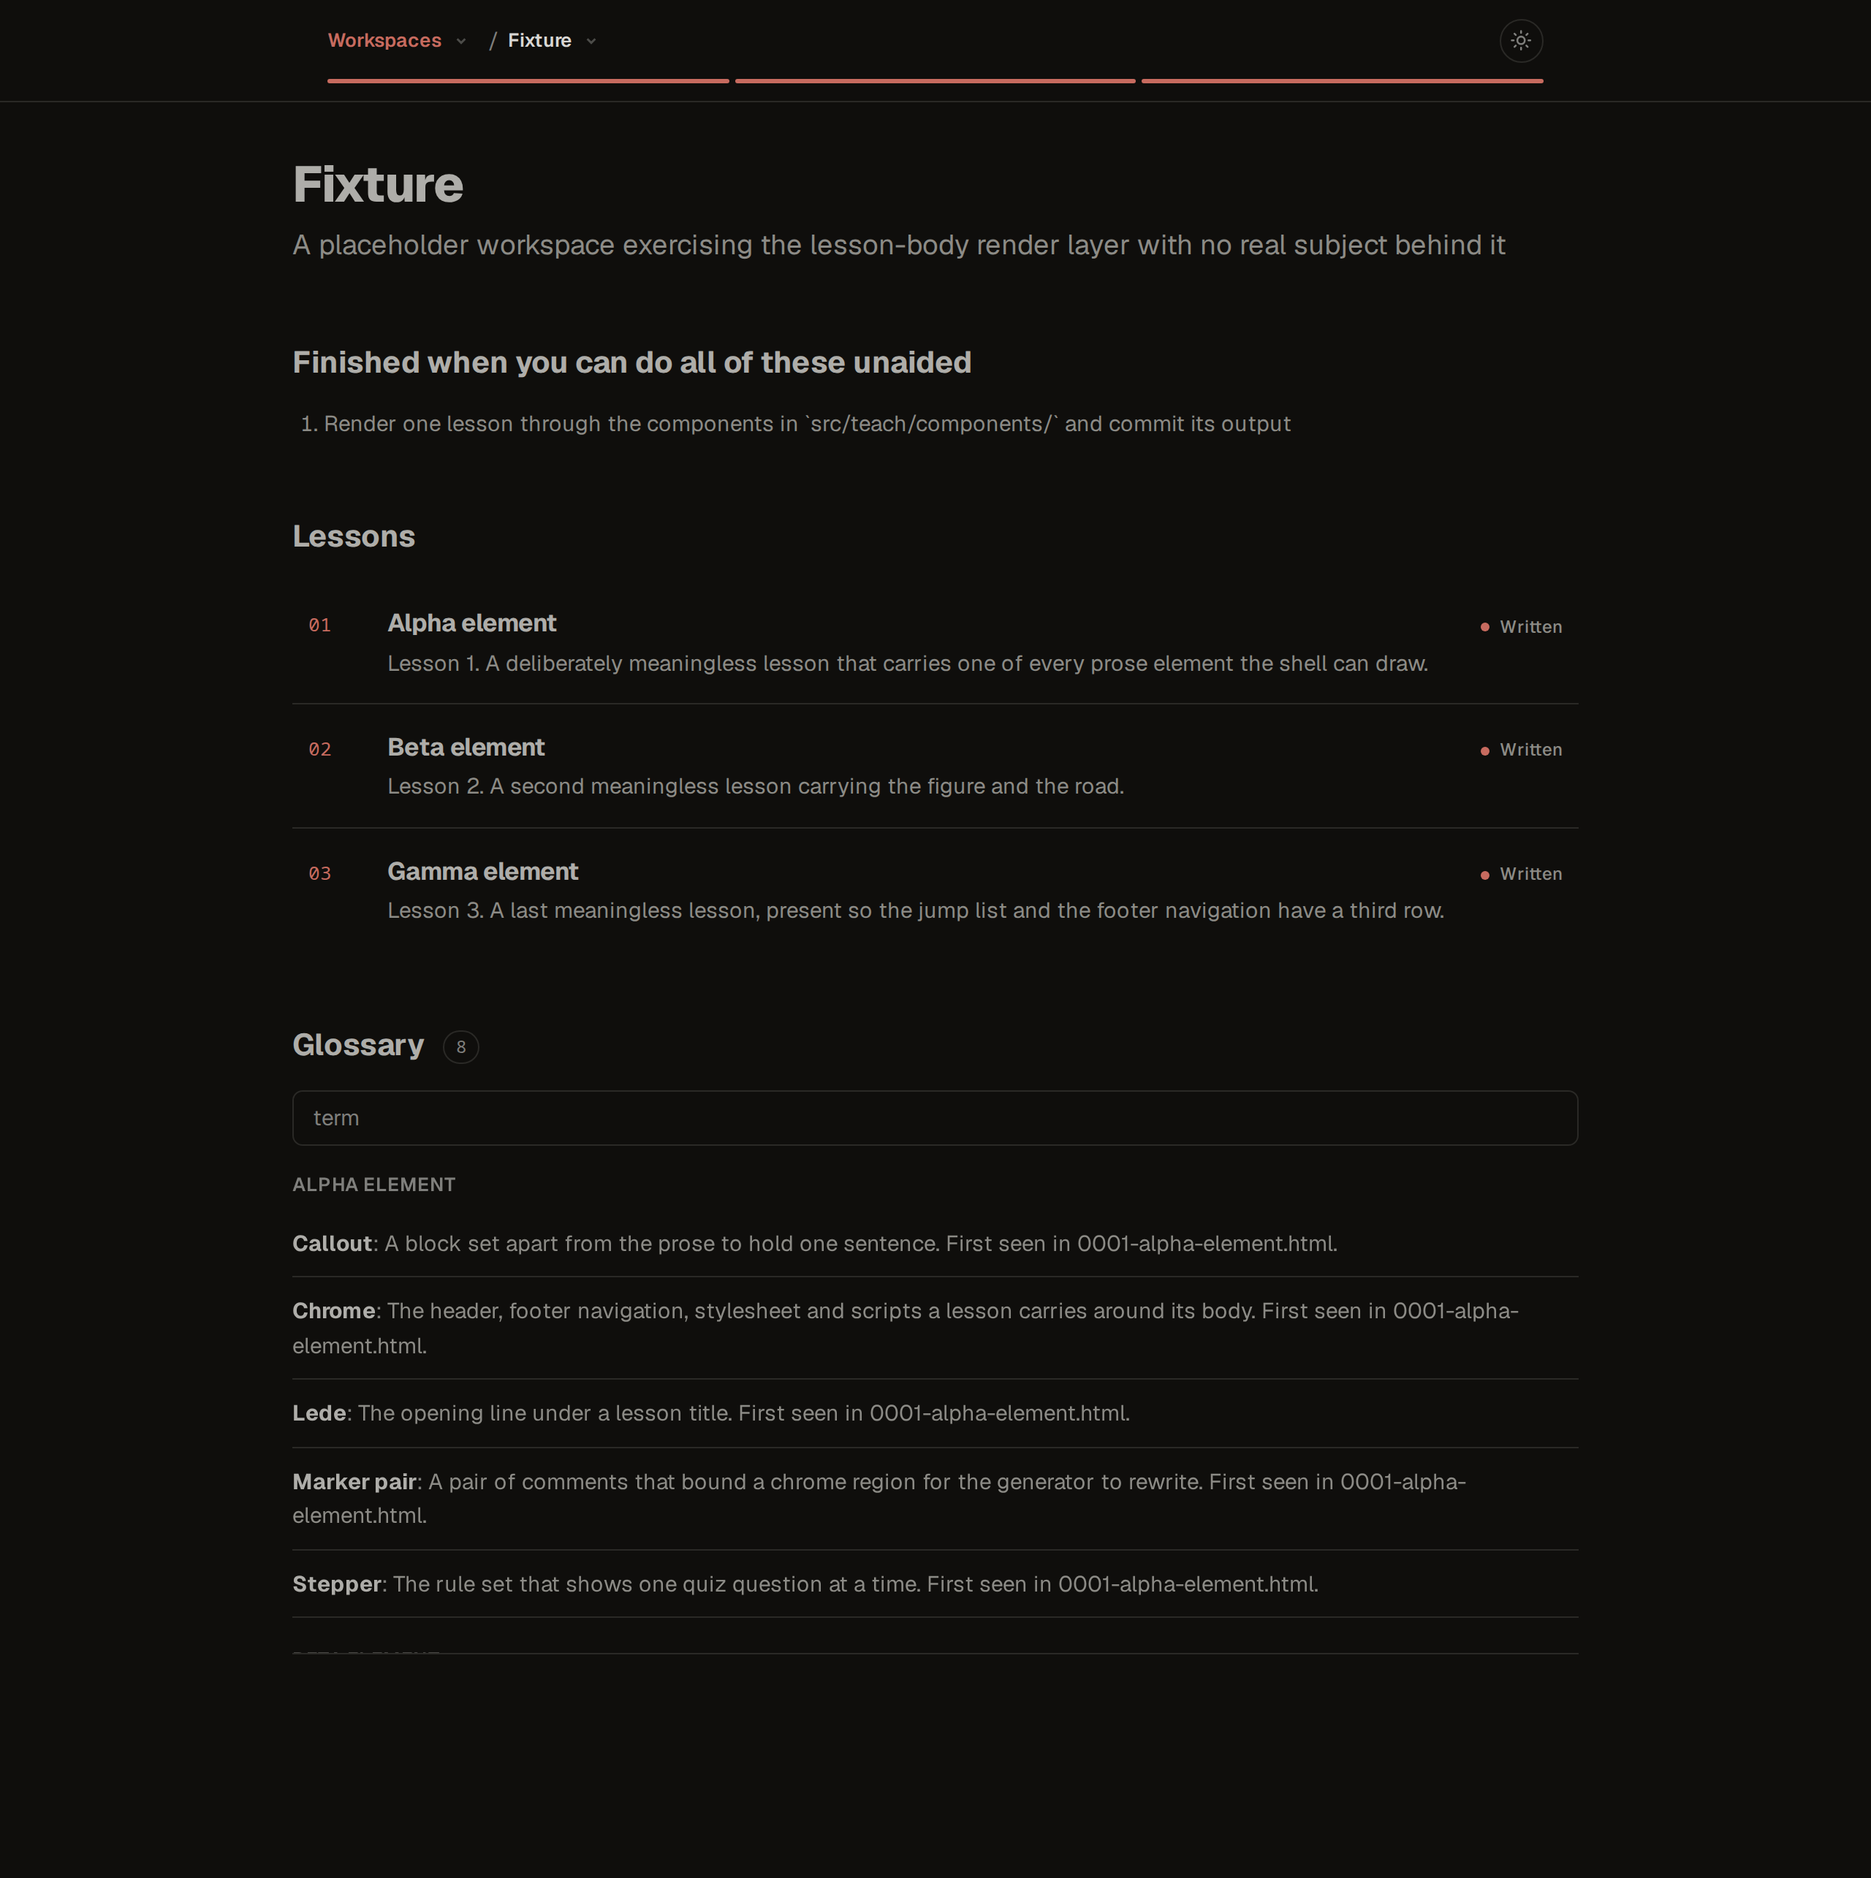
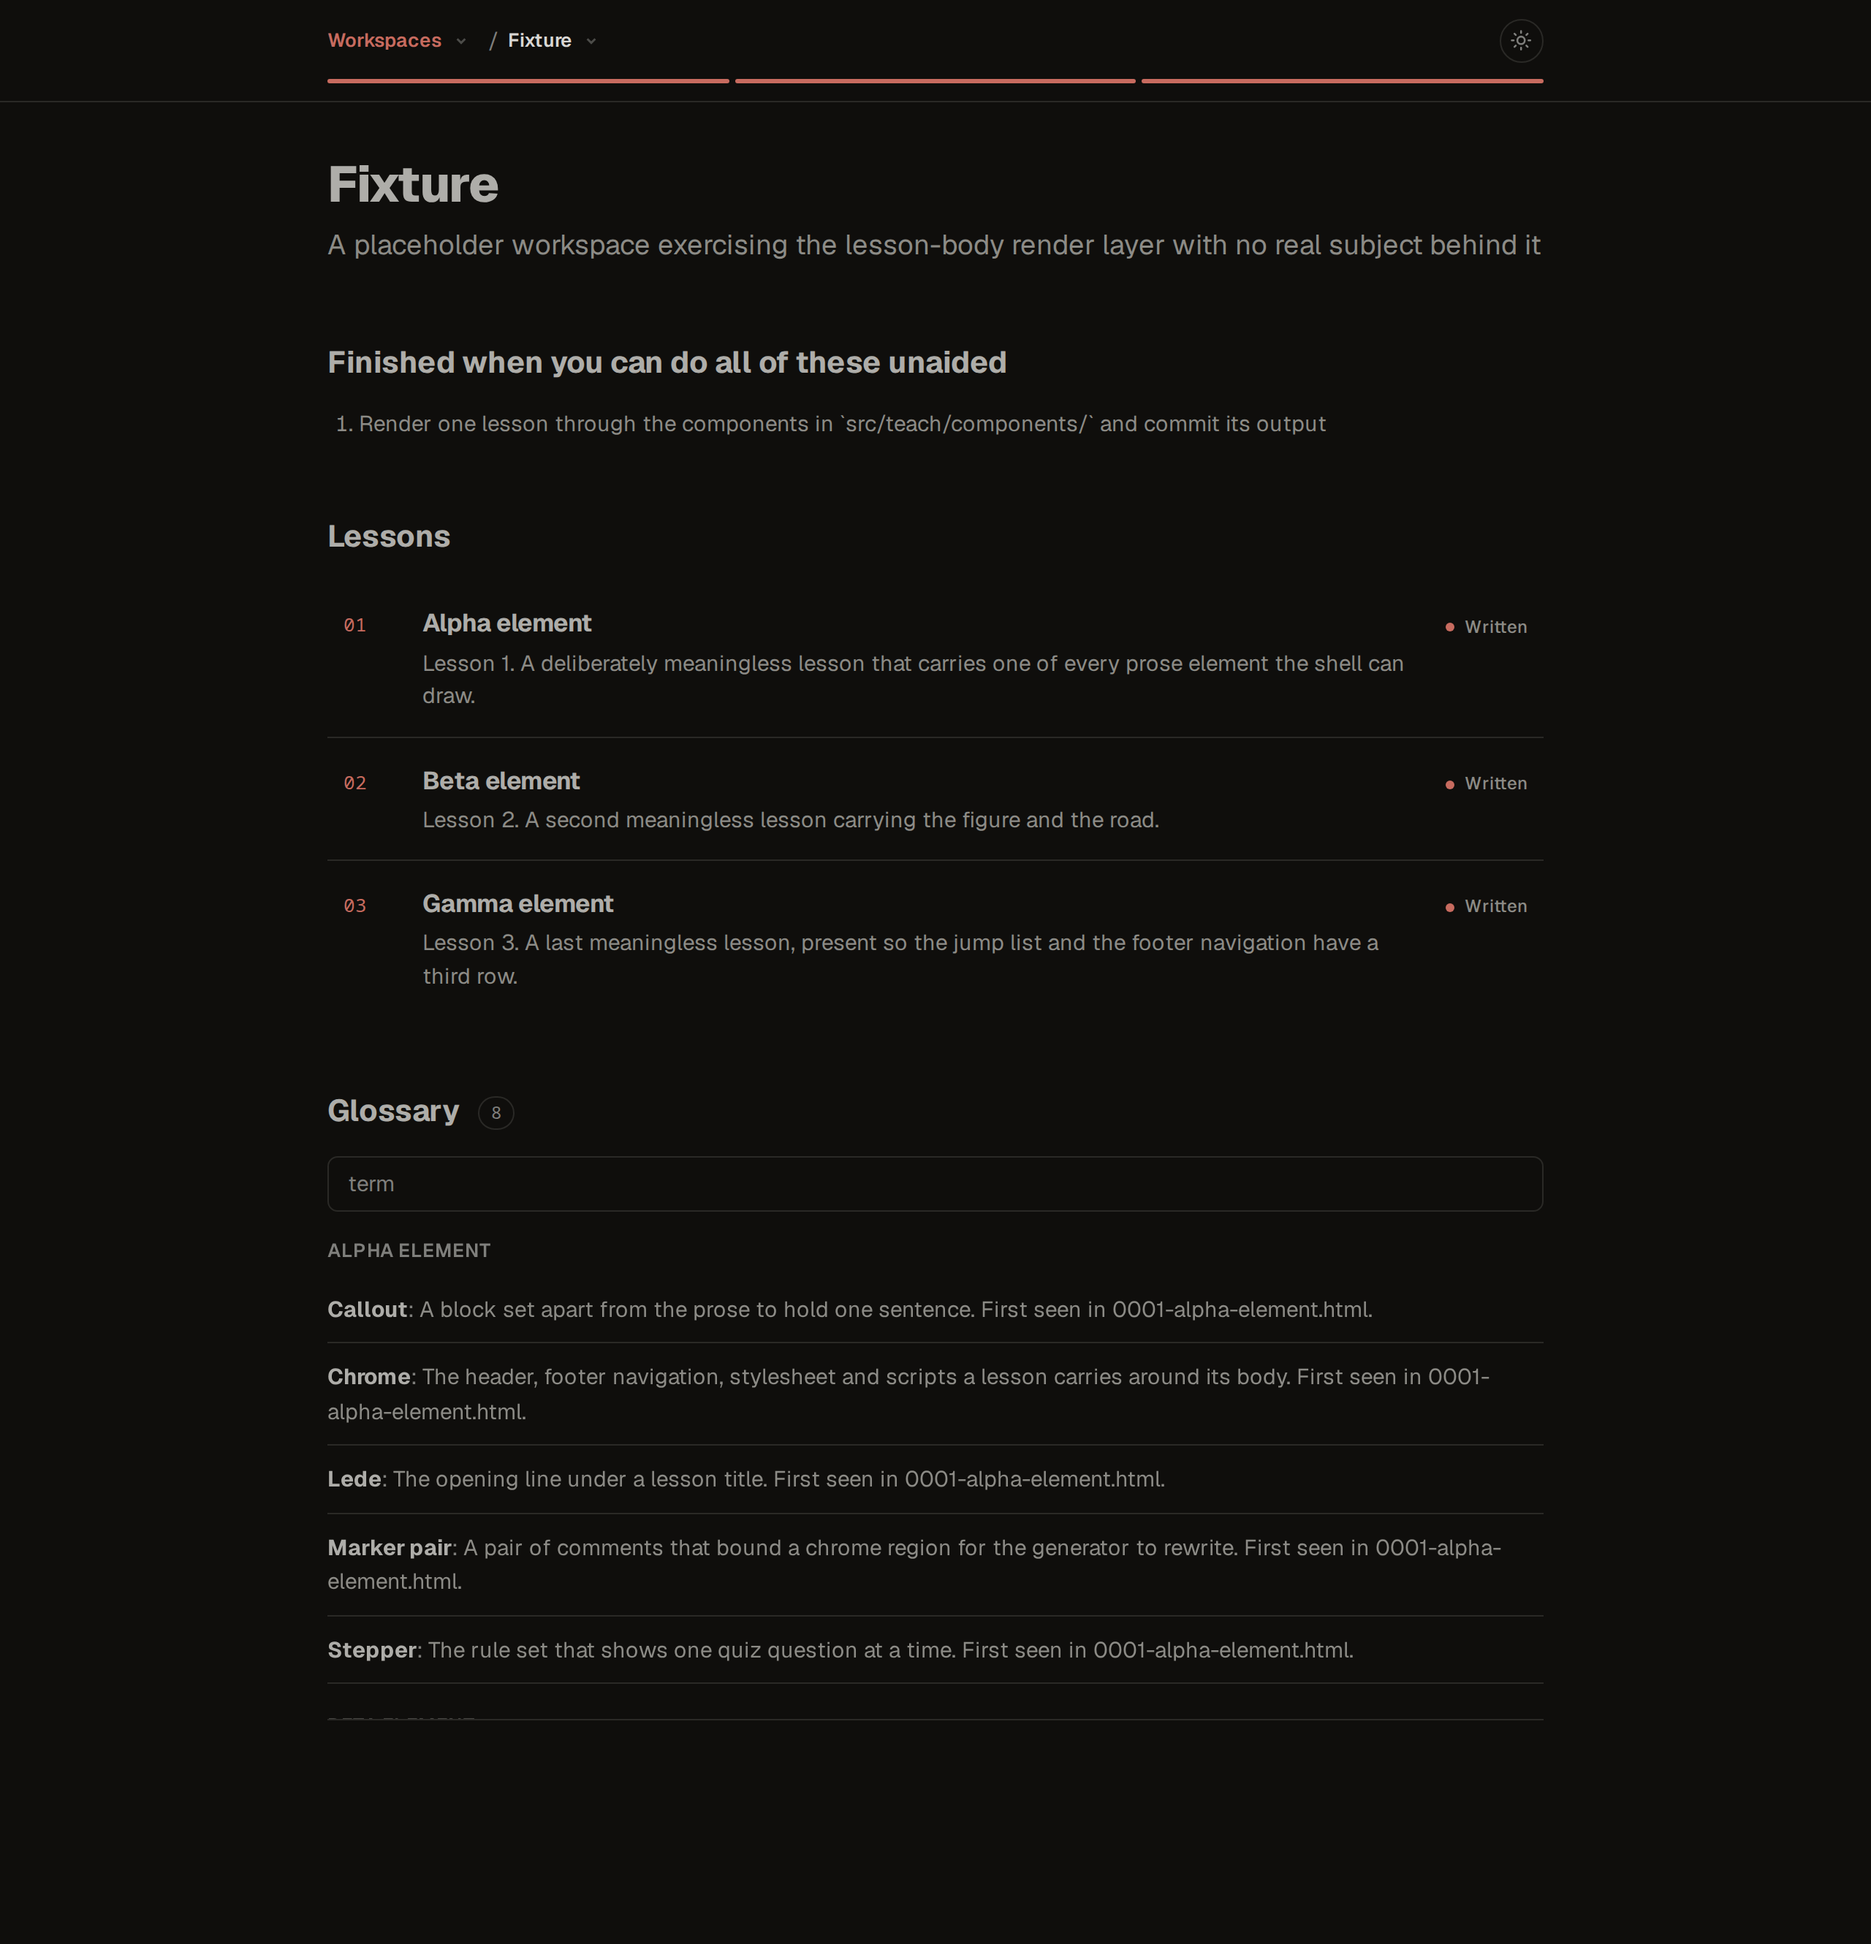
fix(teach): size padded boxes by border box and refresh the fixture

diff --git a/examples/teach/00-fixture/assets/base.css b/examples/teach/00-fixture/assets/base.css
@@ -295,6 +295,10 @@ figcaption {
   --teach-shadow: none;
 }
 
+html {
+  scroll-padding-top: calc(var(--teach-mast-h) + 1rem);
+}
+
 /* No horizontal padding on the body, so the sticky bar reaches both window
    edges. The gutter moves onto `main`, which is the only thing that needed it. */
 body {
@@ -313,6 +317,7 @@ body {
    them. A narrower `.wide-body` was what put the navigation and the content on
    two different measures. */
 main {
+  box-sizing: border-box;
   max-width: calc(var(--teach-measure) + 3rem);
   margin: 0 auto;
   padding: 2.25rem 1.5rem 0;
@@ -402,6 +407,12 @@ main {
   font-weight: 400;
   box-shadow: none;
 }
+.nav > :only-child {
+  flex: 0 1 calc(50% - 0.3rem);
+}
+.nav > .to-next:only-child {
+  margin-left: auto;
+}
 
 .nav .lbl {
   display: block;
@@ -422,9 +433,6 @@ main {
 .nav .to-index {
   flex: 0 0 auto;
   text-align: center;
-}
-.nav-foot {
-  margin: 4.5rem 0 0;
 }
 
 /* ---- Masthead contents ---- */
@@ -586,7 +594,10 @@ main {
 /* ---- Footer navigation, the only place it appears ---- */
 
 .nav {
-  margin: 4rem 0 0;
+  max-width: calc(var(--teach-measure) + 3rem);
+  margin: 4rem auto 0;
+  padding: 0 1.5rem;
+  box-sizing: border-box;
   align-items: stretch;
 }
 
@@ -1171,6 +1182,7 @@ ol.succ li {
   font-family: var(--teach-sans);
   font-size: var(--t4);
   background: transparent;
+  box-sizing: border-box;
   width: 100%;
   text-align: left;
   color: inherit;

diff --git a/examples/teach/01-sparse/assets/base.css b/examples/teach/01-sparse/assets/base.css
@@ -295,6 +295,10 @@ figcaption {
   --teach-shadow: none;
 }
 
+html {
+  scroll-padding-top: calc(var(--teach-mast-h) + 1rem);
+}
+
 /* No horizontal padding on the body, so the sticky bar reaches both window
    edges. The gutter moves onto `main`, which is the only thing that needed it. */
 body {
@@ -313,6 +317,7 @@ body {
    them. A narrower `.wide-body` was what put the navigation and the content on
    two different measures. */
 main {
+  box-sizing: border-box;
   max-width: calc(var(--teach-measure) + 3rem);
   margin: 0 auto;
   padding: 2.25rem 1.5rem 0;
@@ -402,6 +407,12 @@ main {
   font-weight: 400;
   box-shadow: none;
 }
+.nav > :only-child {
+  flex: 0 1 calc(50% - 0.3rem);
+}
+.nav > .to-next:only-child {
+  margin-left: auto;
+}
 
 .nav .lbl {
   display: block;
@@ -422,9 +433,6 @@ main {
 .nav .to-index {
   flex: 0 0 auto;
   text-align: center;
-}
-.nav-foot {
-  margin: 4.5rem 0 0;
 }
 
 /* ---- Masthead contents ---- */
@@ -586,7 +594,10 @@ main {
 /* ---- Footer navigation, the only place it appears ---- */
 
 .nav {
-  margin: 4rem 0 0;
+  max-width: calc(var(--teach-measure) + 3rem);
+  margin: 4rem auto 0;
+  padding: 0 1.5rem;
+  box-sizing: border-box;
   align-items: stretch;
 }
 
@@ -1171,6 +1182,7 @@ ol.succ li {
   font-family: var(--teach-sans);
   font-size: var(--t4);
   background: transparent;
+  box-sizing: border-box;
   width: 100%;
   text-align: left;
   color: inherit;

diff --git a/src/design/components.ts b/src/design/components.ts
@@ -284,7 +284,7 @@ body {
    listing page and a lesson start at the same left edge as the chrome above
    them. A narrower \`.wide-body\` was what put the navigation and the content on
    two different measures. */
-main { max-width: calc(var(--teach-measure) + 3rem); margin: 0 auto; padding: 2.25rem 1.5rem 0; }
+main { box-sizing: border-box; max-width: calc(var(--teach-measure) + 3rem); margin: 0 auto; padding: 2.25rem 1.5rem 0; }
 .wide-body { max-width: calc(var(--teach-measure) + 3rem); }
 
 .bar {
@@ -928,6 +928,7 @@ const TEACH_QUIZ: Component = {
   font-family: var(--teach-sans);
   font-size: var(--t4);
   background: transparent;
+  box-sizing: border-box;
   width: 100%;
   text-align: left;
   color: inherit;

diff --git a/src/design/css.test.ts b/src/design/css.test.ts
@@ -222,6 +222,16 @@ describe('buildDesignCss', () => {
       )
     })
 
+    it('sizes every padded full-width box by its border box so none overflows a narrow viewport', () => {
+      const css = teachCss()
+
+      for (const selector of ['main', '.nav', '.opt']) {
+        expect(declarationsOf(css, selector)).toContain(
+          'box-sizing: border-box',
+        )
+      }
+    })
+
     it('leaves smooth scrolling off, since a jump during reading competes with it', () => {
       expect(teachCss()).not.toContain('scroll-behavior')
     })

diff --git a/examples/teach/02-unopened/assets/base.css b/examples/teach/02-unopened/assets/base.css
@@ -317,6 +317,7 @@ body {
    them. A narrower `.wide-body` was what put the navigation and the content on
    two different measures. */
 main {
+  box-sizing: border-box;
   max-width: calc(var(--teach-measure) + 3rem);
   margin: 0 auto;
   padding: 2.25rem 1.5rem 0;
@@ -1181,6 +1182,7 @@ ol.succ li {
   font-family: var(--teach-sans);
   font-size: var(--t4);
   background: transparent;
+  box-sizing: border-box;
   width: 100%;
   text-align: left;
   color: inherit;

diff --git a/examples/teach/course.css b/examples/teach/course.css
@@ -310,6 +310,7 @@ body {
    them. A narrower `.wide-body` was what put the navigation and the content on
    two different measures. */
 main {
+  box-sizing: border-box;
   max-width: calc(var(--teach-measure) + 3rem);
   margin: 0 auto;
   padding: 2.25rem 1.5rem 0;
@@ -1174,6 +1175,7 @@ ol.succ li {
   font-family: var(--teach-sans);
   font-size: var(--t4);
   background: transparent;
+  box-sizing: border-box;
   width: 100%;
   text-align: left;
   color: inherit;
